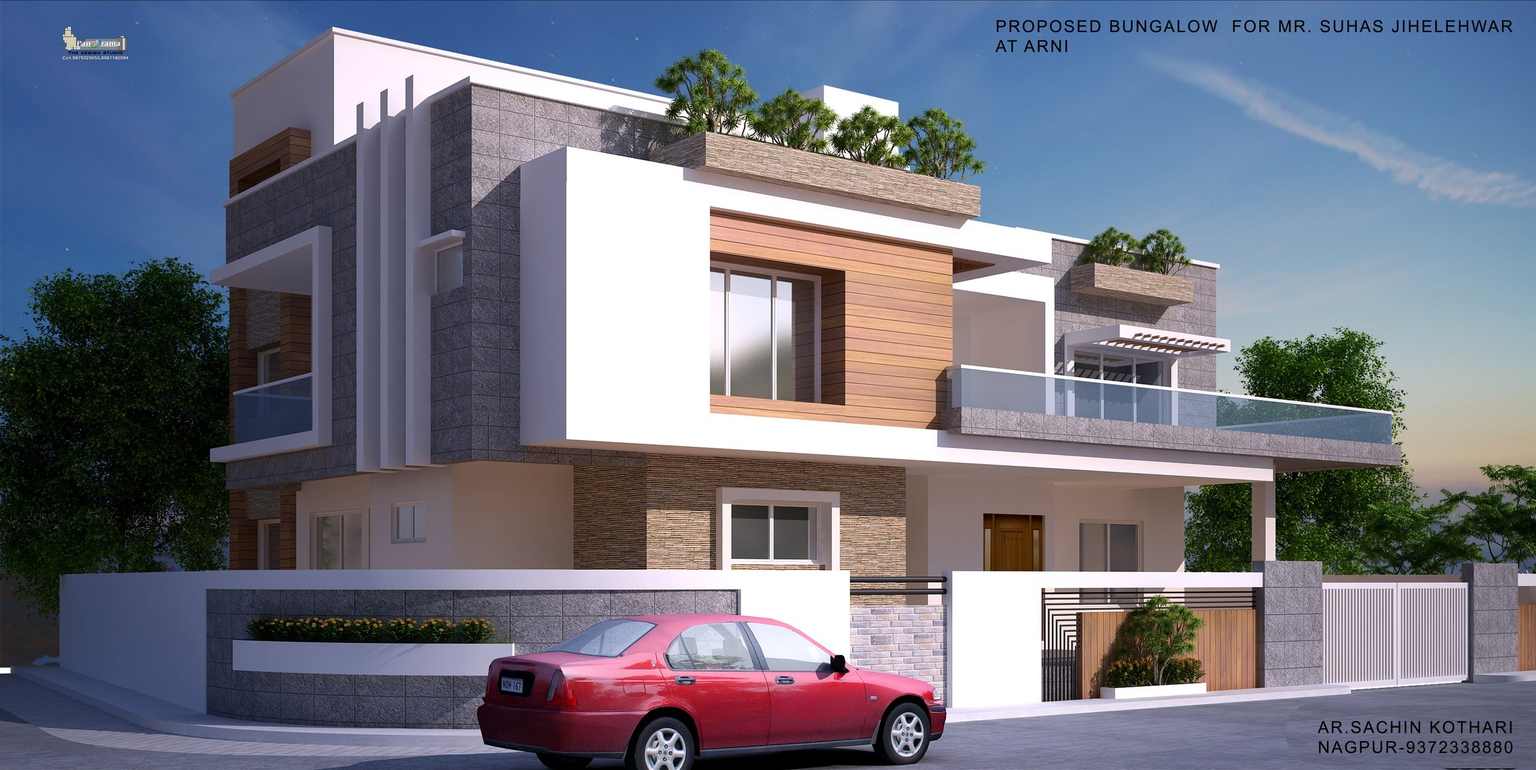
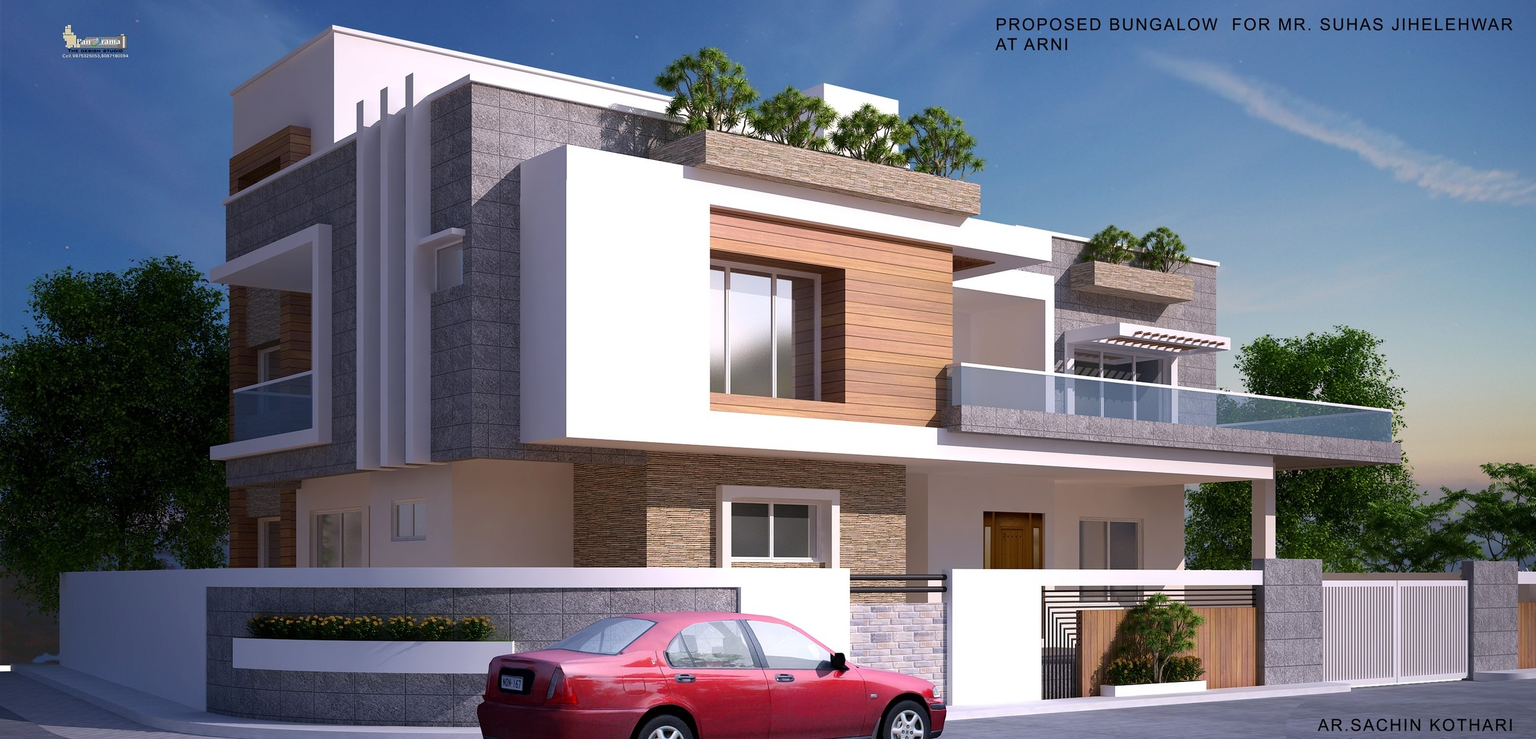
feat: harmonize sectors, refine copy for Pan-India architectural practice, and replace contact form with direct consultation

diff --git a/src/lib/site.ts b/src/lib/site.ts
@@ -2,7 +2,6 @@
  * Site content: every fact from the original site, rewritten shorter.
  * Edit here; components only render.
  */
-import { projectCount } from './projects';
 
 export const site = {
   name: 'K2 Architects',
@@ -10,7 +9,7 @@ export const site = {
   city: 'Nagpur',
   since: 1999,
   description:
-    'K2 Architects is an architecture practice founded in Nagpur, Maharashtra in 1999. 450+ schools, colleges, hospitals, hostels, townships and commercial buildings across seven Indian states.',
+    'K2 Architects is an architectural practice founded in Nagpur, Maharashtra in 1999. 450+ educational campuses, hospitals, banquet complexes, townships, and commercial developments delivered across India.',
   phone: '9422101718',
   phoneDisplay: '+91 94221 01718',
   email: 'ar8880@gmail.com',
@@ -44,14 +43,14 @@ export const services = [
   { name: 'Hospital & Healthcare Architecture', description: 'NABH-compliant multi-speciality hospital complexes, medical colleges, diagnostic centres, and healthcare facilities.' },
   { name: 'Banquet & Hospitality Venues', description: 'Grand celebration venues, marriage halls, and commercial hospitality complexes designed for major gatherings.' },
   { name: 'Residential Townships & Housing', description: 'Integrated residential townships, apartment complexes, commercial plazas, and mixed-use developments.' },
-  { name: 'Landscape Ecology & Biophilic Design', description: 'Sustainable micro-climates, water harvesting, native botanical integration, and therapeutic campus greens.' },
+  { name: 'Campus Landscape & Environmental Design', description: 'Site grading, rainwater harvesting, native shading plantation, pedestrian campus circulation, and climate-responsive outdoor spaces.' },
   { name: 'Luxury Bungalows & Private Estates', description: 'Bespoke country villas, farmhouses, and private family residences.' },
 ];
 
 export const faqs = [
   {
     question: 'What architectural services does K2 Architects offer?',
-    answer: 'K2 Architects specialises in architectural design for educational campuses (schools and colleges), multi-speciality hospital complexes, and grand banquet venues. Alongside these core sectors, our practice delivers complete architectural and engineering consultancy for residential developments, commercial complexes, and private residences.'
+    answer: 'K2 Architects specialises in architectural design for educational campuses (schools and colleges), multi-speciality hospital complexes, and grand banquet venues. Alongside these core sectors, our practice delivers complete architectural design and planning for residential developments, commercial complexes, and private residences.'
   },
   {
     question: 'Where is K2 Architects located and which regions does it serve?',
@@ -59,7 +58,7 @@ export const faqs = [
   },
   {
     question: 'Who leads the studio at K2 Architects?',
-    answer: 'The practice is led by Principal Architect Ar. Sachin Kothari (Council of Architecture-registered, with 25+ years of institutional design experience) alongside Landscape Architect & Partner Ar. Riya Kothari, specialising in environmental design, sustainable micro-climates, and landscape ecology.'
+    answer: 'The practice is led by Principal Architect Ar. Sachin Kothari (Council of Architecture-registered, with 25+ years of institutional design experience) alongside Landscape Architect & Partner Ar. Riya Kothari, specialising in campus landscape architecture, native environmental planning, and outdoor campus circulation.'
   },
   {
     question: 'What is K2 Architects’ experience in school and educational campus design?',
@@ -78,11 +77,11 @@ export const nav = [
   { href: '/contact', label: 'Contact' },
 ];
 
-export const credentials = [
+export const credentials: Array<{ value: number | string; suffix: string; label: string; isText?: boolean }> = [
   { value: 25, suffix: '+', label: 'Years of practice' },
   { value: 450, suffix: '+', label: 'Projects delivered' },
-  { value: 7, suffix: '', label: 'Indian states' },
-  { value: projectCount, suffix: '', label: 'Works in this portfolio' },
+  { value: 'Pan-India', suffix: '', label: 'Project reach', isText: true },
+  { value: 8, suffix: '', label: 'Specialised sectors' },
 ];
 
 /** The eight sectors of the portfolio, matching Works filters and categories. */
@@ -146,9 +145,9 @@ export const sectors = [
 ];
 
 export const manifesto = [
-  'Over 25 years of building schools, hospitals and campuses across Central India.',
-  'Every project begins with the people who will use it, and ends with a building that will outlast us.',
-  'Consortiums with national organisations let a Nagpur studio deliver at national scale.',
+  'Over 25 years designing landmark educational campuses, healthcare facilities, and gathering venues.',
+  'Every project begins with the people who will use it, and ends with architecture built to outlast us.',
+  'Headquartered in Nagpur at the geographic center of India, delivering architectural commissions across the nation.',
 ];
 
 export const team = [
